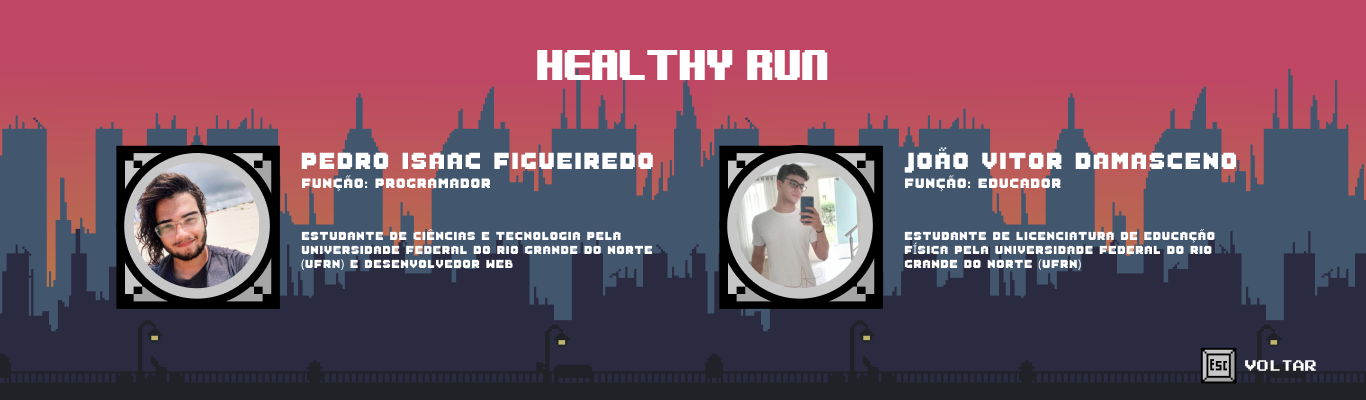
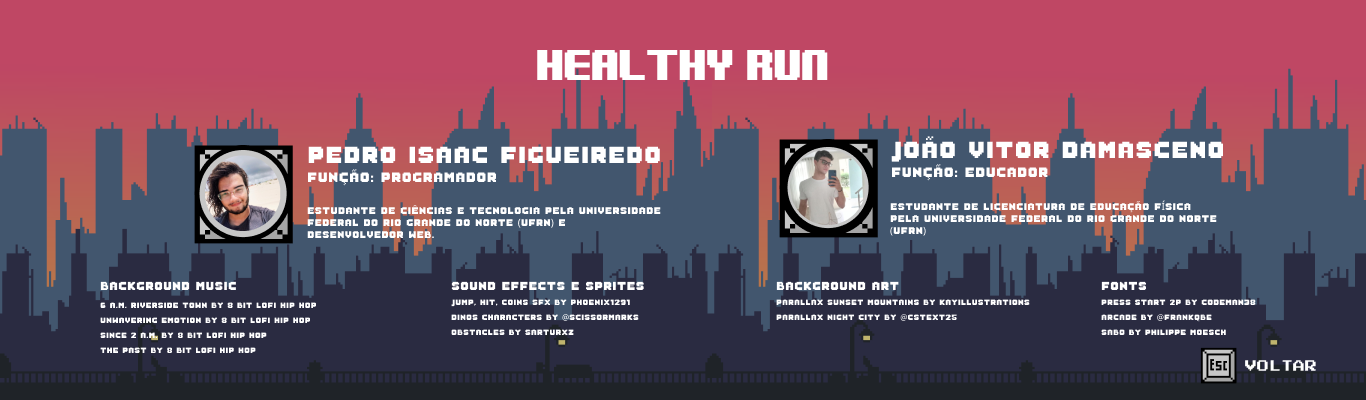
v1.9.1
// v1.9.1
// improved credits screen
// start to add skin selection screen and sprites
// blue added
// playground screen new background
// fixed sprites locations

Changed region(s): [[0.0615, 0.36, 0.4919, 0.9], [0.5227, 0.33, 0.9224, 0.81], [0.7994, 0.69, 0.9224, 0.84]]

diff --git a/js/screenPlayground/version.js b/js/screenPlayground/version.js
@@ -1,13 +1,10 @@
-// v1.9
-// improved colors
-    // obstacles
-    // dinos
-// fixed collision detection
-// fix player.height and player.width
-// fix sprite size
-// better obstacles sprite
-// fix gameover menu and diseases overlaping
-// faster loading screen
+// v1.9.1
+// improved credits screen
+// start to add skin selection screen and sprites
+// blue added
+// playground screen new background
+// fixed sprites locations
+
 
 
 
@@ -17,5 +14,5 @@ function version() {
     textSize(12);
     textAlign(CENTER);
 
-    text('v1.9', 30, height - 5);
+    text('v1.9.1', 30, height - 5);
 }
